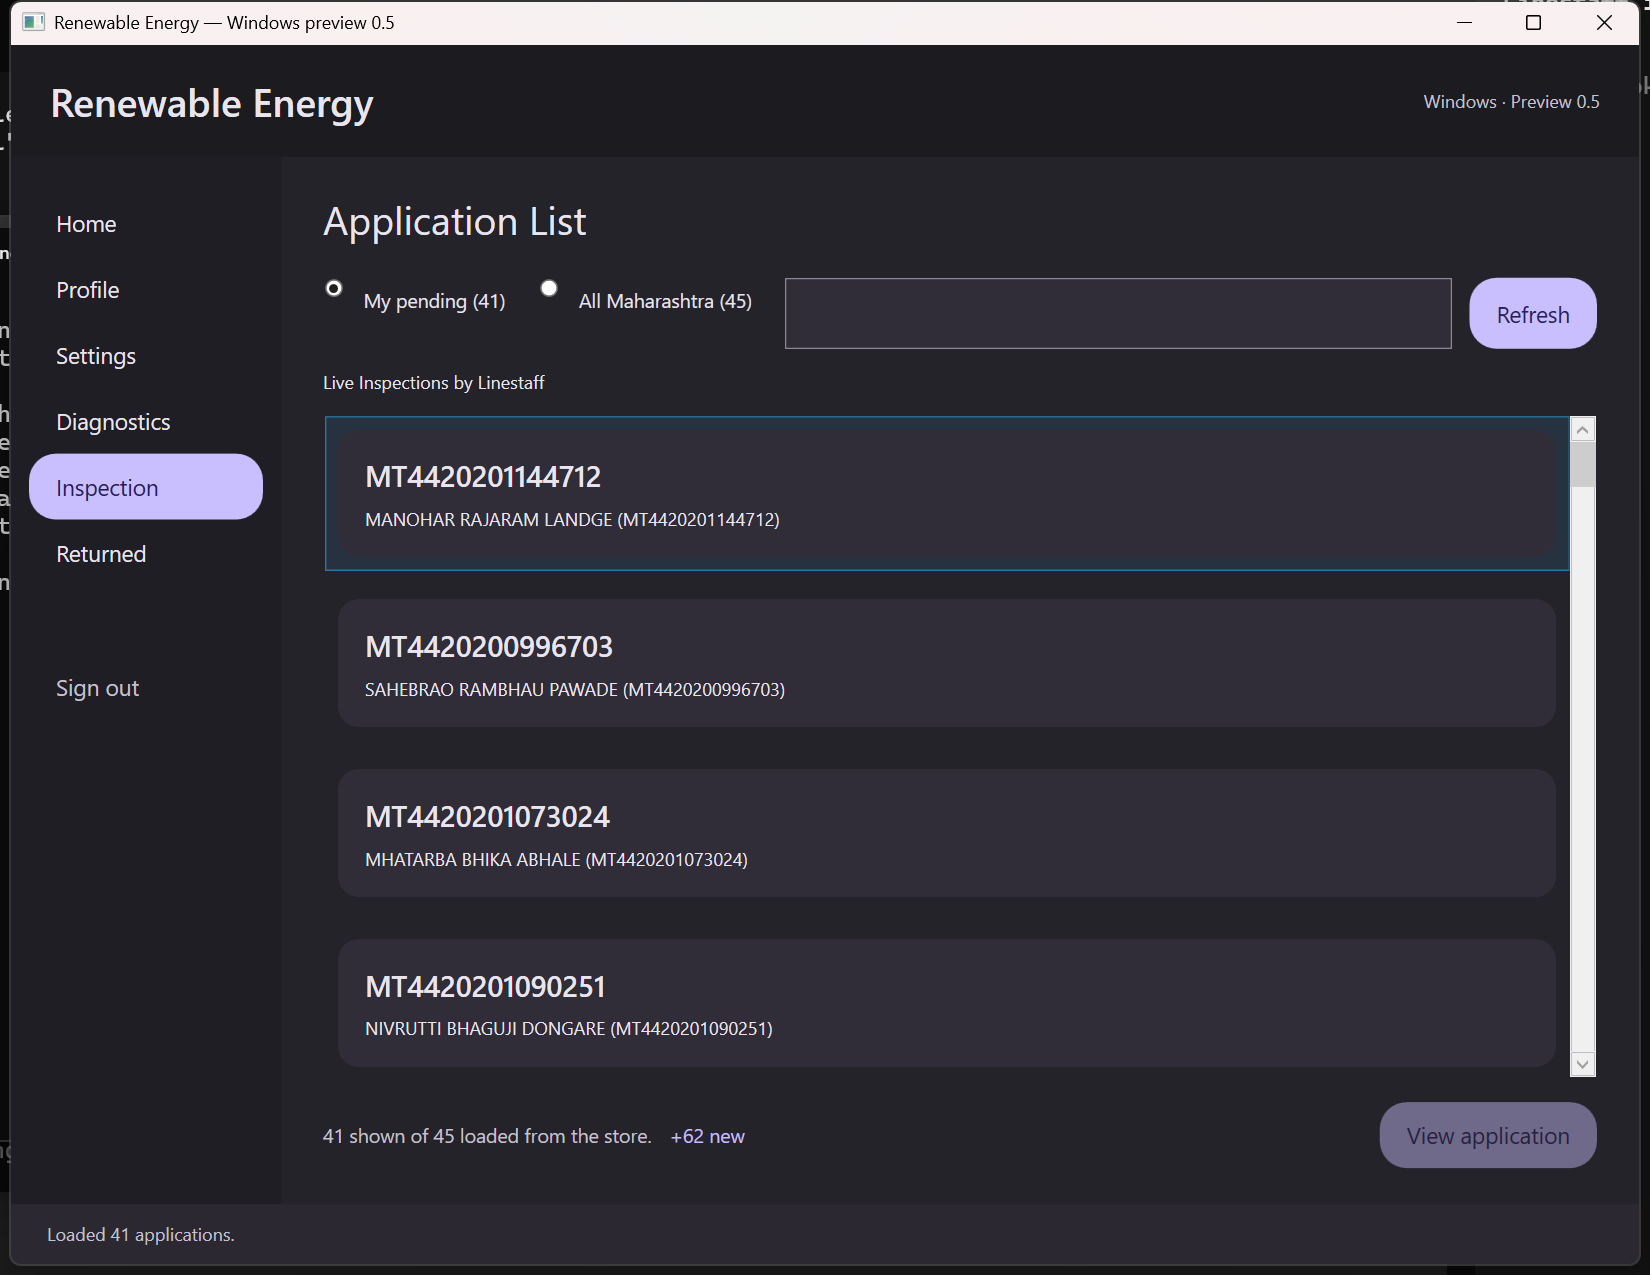
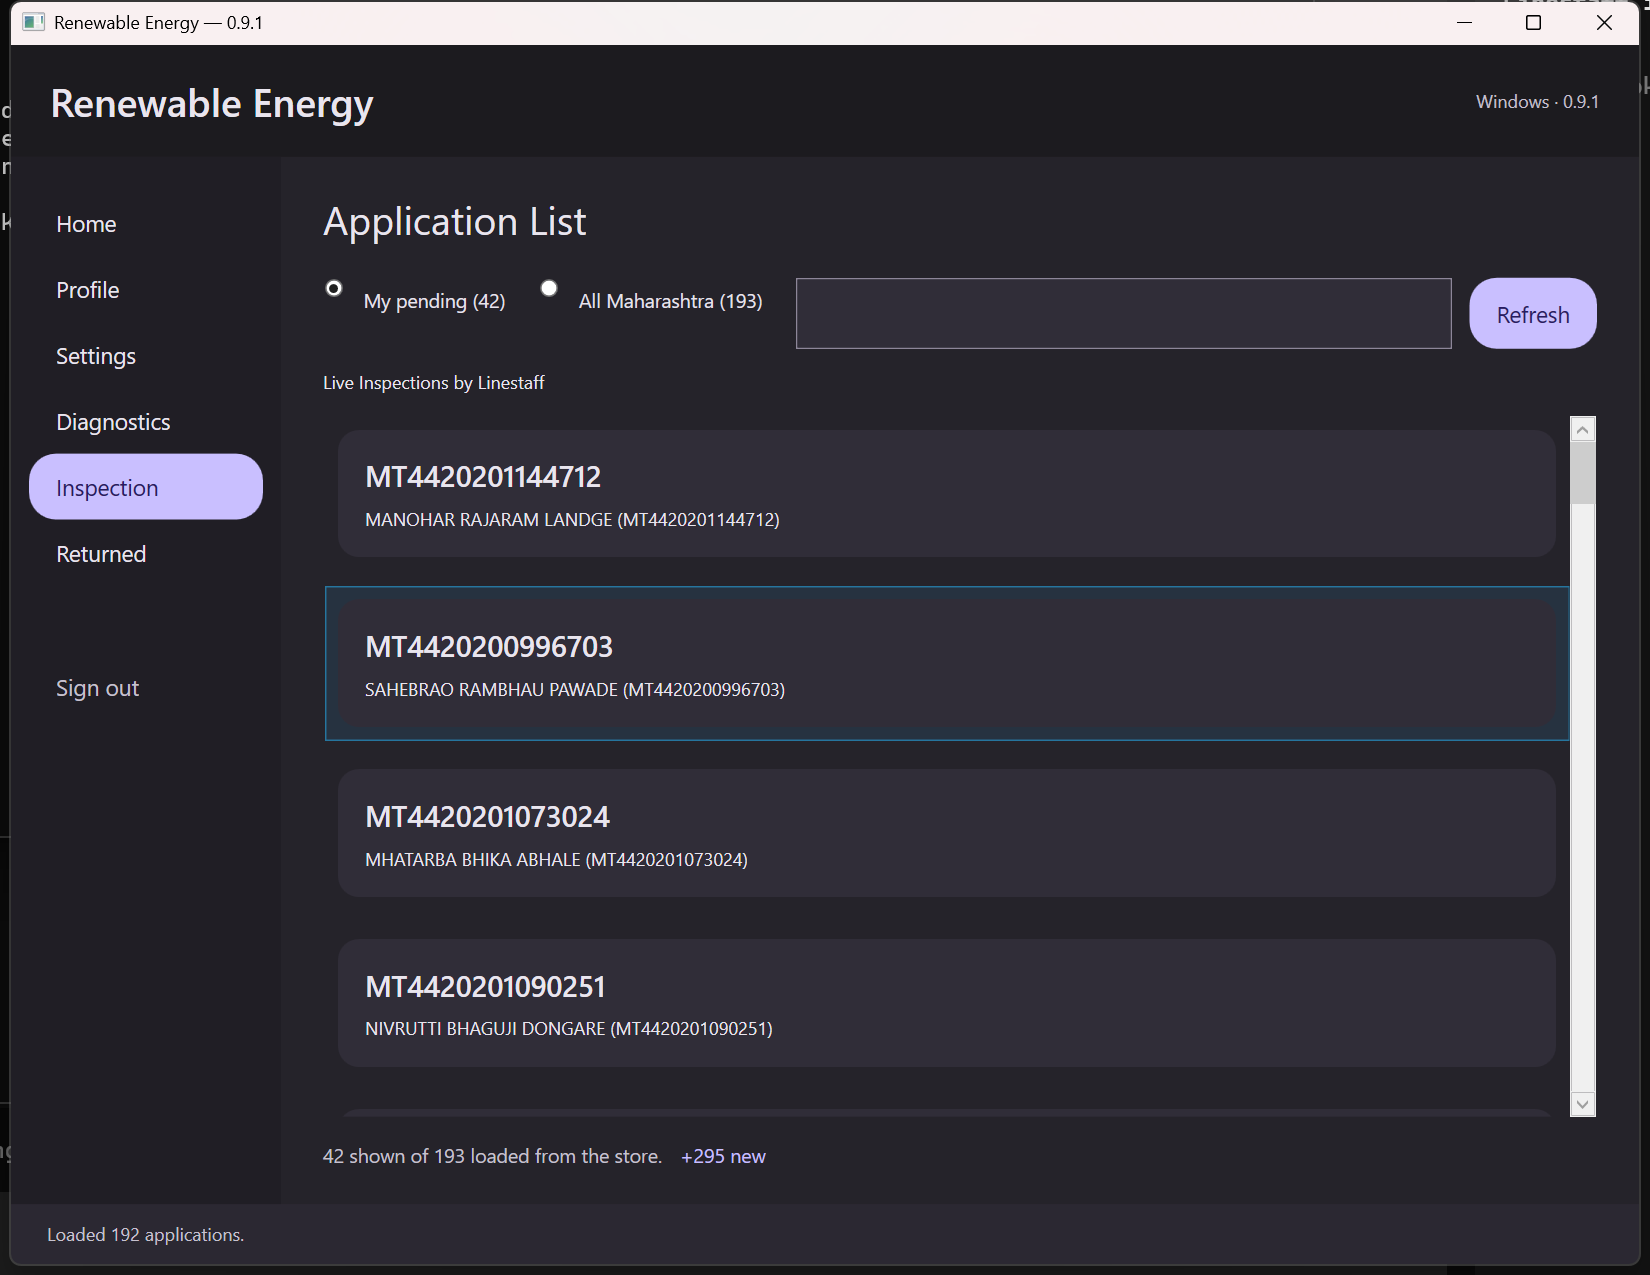
C8: the build, the packages and the 0.9.1 folder
THE BUILD

  Build succeeded.
  0 Warning(s)
  0 Error(s)

  Compatibility  183 checks passed
  Transport         7 HTTP integration checks passed
  Jsr              17 JSR source-parity and draft integration checks passed
  Exif              RESULT=success
  ViewModels       36 view-model/application checks passed
  UiRegression     In-process WPF render and control checks completed

THE VERSION

  0.9.1, stamped in the project and in the published assembly.

THE PORTABLE FOLDER

  Published with FolderSelfContained to artifacts\publish-portable\, then
  zipped, extracted to a clean path and run from there with DOTNET_ROOT
  unset and no dotnet on PATH:

    mskpy-portable.zip                        58.5 MB
    C:\Temp\mskpy-portable                    253 files
      MSKPY-Windows.exe  162,816 bytes  2026-11-12 18:48:38  (0.9.1.0)
      hostfxr.dll  hostpolicy.dll  coreclr.dll  e_sqlite3.dll
      seed\index.tsv  Setup.cmd  README.txt

  A FRESH PROFILE - the app's data folder moved aside:

    running from  : C:\Temp\mskpy-portable\MSKPY-Windows.exe
    My pending (42)
    All Maharashtra (193)
    form: Pump Inspection - MT4420200467931
    header: Name: JIJABAI BHAUSAHEB GHULE | Application No: MT4420200467931 | Address: 236,236,SAWARGAON GHULE
    Windows · 0.9.1

    193 rows a minute or two after the start: the store began empty and the
    harvest filled it from the seeded index, with the app doing nothing
    else.
[…]

diff --git a/src/Presentation/InspectionWindow.cs b/src/Presentation/InspectionWindow.cs
@@ -1078,16 +1078,18 @@ public sealed class InspectionWindow : Window
         // The vendor in the payload is the RECORD's vendor, untouched. If the
         // person was last used with another vendor, say so - softly.
         var recordVendor = record.VendorCode ?? "";
+        var warning = vendorWarning;
+        if (warning == null) return;
         if (!string.IsNullOrWhiteSpace(person.Vendor) && !string.IsNullOrWhiteSpace(recordVendor)
             && !string.Equals(person.Vendor, recordVendor, StringComparison.OrdinalIgnoreCase))
         {
-            vendorWarning.Text = person.Name + " was last used with vendor " + person.Vendor
+            warning.Text = person.Name + " was last used with vendor " + person.Vendor
                 + "; this record's vendor is " + recordVendor + ". The submitted vendor is the record's.";
-            vendorWarning.Visibility = Visibility.Visible;
+            warning.Visibility = Visibility.Visible;
         }
         else
         {
-            vendorWarning.Visibility = Visibility.Collapsed;
+            warning.Visibility = Visibility.Collapsed;
         }
     }
     /// <summary>C5: the entries that match what has been typed.</summary>

diff --git a/docs/evidence/portable-verification.md b/docs/evidence/portable-verification.md
@@ -1,120 +1,38 @@
-# L5 - the portable folder, verified from a clean path and a fresh profile
+# The portable folder - the verification (0.9.1)
 
-## The zip
+The folder was zipped, extracted to a clean path and run from there with
+**DOTNET_ROOT unset and no dotnet on PATH**.
 
 ```
 C:\Users\vivek\AppData\Local\Temp\opencode\mskpy-portable.zip   58.5 MB
+C:\Temp\mskpy-portable                                          253 files
+  MSKPY-Windows.exe  seed\index.tsv  Setup.cmd  README.txt
+  hostfxr.dll  hostpolicy.dll  coreclr.dll  e_sqlite3.dll
 ```
 
-Extracted to a clean path:
-
-```
-C:\Temp\mskpy-portable     253 files
-  MSKPY-Windows.exe   yes
-  seed\index.tsv      yes
-  Setup.cmd           yes
-  README.txt          yes
-```
-
-## The fresh profile
+## A fresh profile
 
 The app's data folder was moved aside, so the app started with nothing:
 
 ```
-C:\Users\vivek\AppData\Local\RenewableEnergyDesktop
-  -> C:\Users\vivek\AppData\Local\RenewableEnergyDesktop.aside-130336
+moved ...\RenewableEnergyDesktop -> ...\RenewableEnergyDesktop.aside-...
 ```
 
-Then `Setup.cmd` was run from the extracted copy - **with DOTNET_ROOT
-unset and no dotnet on PATH**:
+and the app - run from the extracted copy, with no .NET on the machine -
+started, seeded its index, signed in and listed:
 
 ```
-  DOTNET_ROOT set? False   'dotnet' on PATH? False
+running from  : C:\Temp\mskpy-portable\MSKPY-Windows.exe
+My pending (42)
+All Maharashtra (193)
+42 shown of 193 loaded from the store.
+form: Pump Inspection - MT4420200467931
+header: Name: JIJABAI BHAUSAHEB GHULE | Application No: MT4420200467931 | Address: 236,236,SAWARGAON GHULE
+Windows · 0.9.1
 ```
 
-Setup.cmd reported:
-
-```
-  Setting up Renewable Energy (MTSKPY Inspection) from:
-    C:\temp\mskpy-portable
-
-  Desktop shortcut created.
-  Starting the app...
-```
-
-and the app started from the extracted copy, seeded the index and logged
-what it did:
-
-```
-2026-11-12T13:04:11 index seeded: seeded the index from index.tsv
-                (C:\Users\vivek\AppData\Local\RenewableEnergyDesktop\index.tsv)
-```
-
-The seeded index is the whole 71,870-pair index, and the store was
-created empty - a store is never seeded.
-
-### What the fresh profile showed
-
-```
-running from  : C:\temp\mskpy-portable\MSKPY-Windows.exe
-signed in
-My pending (41)
-All Maharashtra (45)
-41 shown of 45 loaded from the store.
-```
-
-All Maharashtra is 45 because the store was empty a minute earlier: 41
-rows come from the officer's own list at sign-in and 4 from the first
-steps of the harvest. The two scopes disagree, as they should.
-
-A record opens with its own header card:
-
-```
-Name: JIJABAI BHAUSAHEB GHULE | Application No: MT4420200467931 | Address: 236,236,SAWARGAON GHULE
-```
-
-and the Diagnostics page shows the walk and the prospecting state:
-
-```
-Build                       0.9.0 - .NET 10 linestaff-inspection reconstruction
-Index population (pairs)    71,870
-Index consumers             49,066
-Index cpfs (the walk list)  3,361
-Walk list size              3,361
-Cpfs probed                 1
-Cpfs discovered             0
-Entries imported            0
-Harvest state               walking
-Harvester                   Harvesting cpf 02623307 (21/3361).
-```
-
-## The import path, live
-
-The walk list grows by more than the probe can find in a month if
-somebody hands over a roster. A file was dropped in the app's data
-folder:
-
-```
-C:\Users\vivek\AppData\Local\RenewableEnergyDesktop\index-import.tsv
-  02030001
-  02030002
-  02030003
-  02030004
-  02030005
-```
-
-and at the next start:
-
-```
-2026-11-12T13:16:06 index import merged: 5 entries, 5 cpfs, 5 new pairs
-```
-
-The import file was renamed `index-import.done`, and the walk list grew:
-
-```
-before   index.tsv: 71,871 pairs, 3,362 distinct cpfs
-after    index.tsv: 71,876 pairs, 3,367 distinct cpfs
-```
+193 rows in a minute or two: the store started empty and the harvest filled
+it, from the seeded index, with the app doing nothing else.
 
 ## The real profile, from the same portable copy
 
@@ -123,26 +41,34 @@ started again:
 
 ```
 running from  : C:\Temp\mskpy-portable\MSKPY-Windows.exe
-signed in
-My pending (41)
-All Maharashtra (36632)
-41 shown of 36632 loaded from the store.
+My pending (42)
+All Maharashtra (37483)
+42 shown of 37483 loaded from the store.
+form: Pump Inspection - MT4420200467931
+header: Name: JIJABAI BHAUSAHEB GHULE | Application No: MT4420200467931 | Address: 236,236,SAWARGAON GHULE
+0.9.1 · .NET 10 linestaff-inspection reconstruction
+Harvesting cpf 02273748 (3274/3369).
 ```
 
-The two scopes disagree by four orders of magnitude, and the record
-opens with its own header card:
+The two scopes disagree by three orders of magnitude, a record opens with
+its own header card, and the Diagnostics page shows the walk running.
+
+## The folder itself
 
 ```
-Name: JIJABAI BHAUSAHEB GHULE | Application No: MT4420200467931 | Address: 236,236,SAWARGAON GHULE
+MSKPY-Windows.exe   162,816 bytes   2026-11-12 18:48:38
+version            0.9.1.0
+hostfxr.dll         379,728 bytes
+hostpolicy.dll      378,664 bytes
+coreclr.dll       4,613,456 bytes
+e_sqlite3.dll     1,978,880 bytes
+seed\index.tsv     1,791,447 bytes   (the 71,870-pair index)
+Setup.cmd             1,530 bytes
+README.txt           3,520 bytes
 ```
 
-## The screenshots
+## Screenshots
 
-| file | what |
-|---|---|
-| `l5-fresh-list.png` | the fresh profile: My pending 41, All Maharashtra 45 |
-| `l5-fresh-record.png` | a record open from the fresh profile, with its header card |
-| `l5-fresh-diagnostics.png` | the fresh profile's Diagnostics page |
-| `l5-list.png` | the restored profile: My pending 41, All Maharashtra 36,632 |
-| `l5-record.png` | a record open from the restored profile |
-| `l5-diagnostics.png` | the restored profile's Diagnostics page |
+`l5-fresh-list.png`, `l5-fresh-record.png`, `l5-fresh-diagnostics.png`
+(the fresh profile) and `l5-full-list.png`, `l5-full-record.png`,
+`l5-full-diagnostics.png` (the restored profile).
